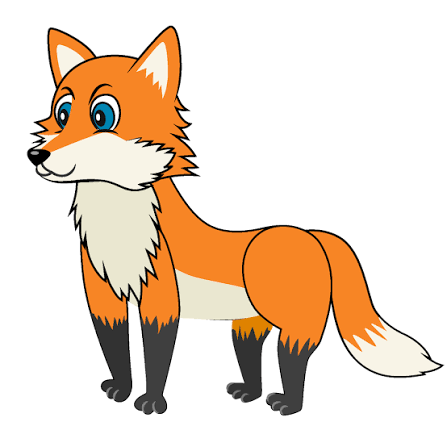
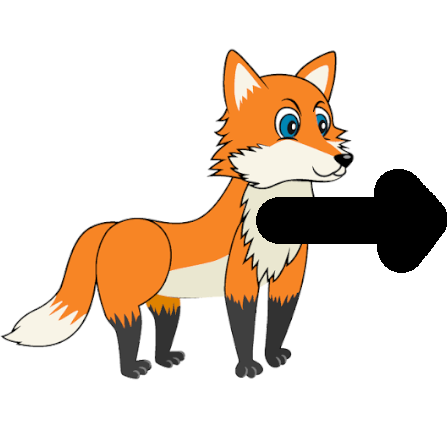
modif: agent.py

diff --git a/agent.py b/agent.py
@@ -13,14 +13,18 @@ class Agent:
         self.max_age = 100
 
         # energy will go down during the simulation, and if it reaches 0, the agent dies
-        self.energy = 100
+        self._energy = 100
+        self.energy_max = 150
         self.reproduction_energy_needed = 120
         self.reproduction_energy_cost = 50
 
+        # countdown is used to pause the agent when it is giving birth or eating
         self.countdown = 0
+        # countdown_cadavre is used to pause the agent when it is eated
+        self.countdown_cadavre = 0
 
         # direction (in radians)
-        self.direction = np.random.uniform(0, 2 * np.pi)
+        self._direction = np.random.uniform(0, 2 * np.pi)
 
         # After each update, the agent can change its direction by a maximum of max_angular_change
         self.max_angular_change = np.pi / 8
@@ -28,6 +32,32 @@ class Agent:
         # scalar speed
         self.speed = 1.
 
+    
+    @property
+    def energy(self):
+        return self._energy
+        
+    
+    @energy.setter
+    def energy(self, value):
+        self._energy = value
+        if self._energy < 0:
+            self._energy = 0
+        elif self._energy > self.energy_max:
+            self._energy = self.energy_max
+    
+    # getter of the direction of the agent
+    @property
+    def direction(self):
+        return self._direction
+
+    # setter of the direction of the agent
+    @direction.setter
+    def direction(self, value):
+        value = np.clip(value, 
+                        self._direction - self.max_angular_change, 
+                        self._direction + self.max_angular_change)
+        self._direction = value
     
     # method to change the direction of the agent by a proportion of the maximum angular change
     def change_direction(self, proportion):
@@ -41,32 +71,26 @@ class Agent:
         self.vx = self.speed * np.cos(self.direction)
         self.vy = self.speed * np.sin(self.direction)
 
-    def move(self, world):
-        # if the agent is in pause (giving birth or eat)
-        if self.countdown != 0 :
-            self.countdown -= 1
-            # speed = 0
-            self.x += 0
-            self.y += 0
-        # else, update of the velocity
-        else :
-            # toric world
-            x_limit = world.width
-            y_limit = world.height
-            
-            self.x += self.vx
-            self.y += self.vy
 
-            # if the agent goes out of the world, it appears on the other side
-            if self.x < 0:
-                self.x += x_limit
-            elif self.x > x_limit:
-                self.x -= x_limit
-            
-            if self.y < 0:
-                self.y += y_limit
-            elif self.y > y_limit:
-                self.y -= y_limit
+    def move(self, world):
+
+        # toric world
+        x_limit = world.width
+        y_limit = world.height
+        
+        self.x += self.vx
+        self.y += self.vy
+
+        # if the agent goes out of the world, it appears on the other side
+        if self.x < 0:
+            self.x += x_limit
+        elif self.x > x_limit:
+            self.x -= x_limit
+        
+        if self.y < 0:
+            self.y += y_limit
+        elif self.y > y_limit:
+            self.y -= y_limit
 
     def get_distance(self, other_agent: Agent, world: "World"):
         """
@@ -104,34 +128,53 @@ class Prey(Agent):
         super().__init__(x, y)
         self.speed = 1.0
 
+    @property
+    def energy(self):
+        if self._energy < 0:
+            self._energy = 0
+        elif self._energy > self.energy_max:
+            self._energy = self.energy_max
+        return self._energy
+    
+
     def runaway(self, world):
         """
         Detect predators in the world and change direction to run away from them.
         """
         distance_to_predators = np.inf
+        # default direction is the current direction of the prey
+        run_away_direction = self.direction
+
         for predator in world.predators:
             distance, direction = self.get_distance(predator, world)
             if distance < distance_to_predators:
                 distance_to_predators = distance
-                # Run away from the predator
+                # Run away from the predator ( the opposite direction => + pi)
                 run_away_direction = direction + np.pi
             
-        # We update the direction of the prey with a maximum angular change
-        diff_direction = self.direction - run_away_direction
-        diff_direction = np.clip(diff_direction, -self.max_angular_change, self.max_angular_change)
-        self.direction -= diff_direction
+        # We update the direction of the prey
+        # using the setter method of the direction property 
+        # to ensure the maximum angular change is respected
+        self.direction = run_away_direction
 
 
     def update(self, world):
         
         # update the direction
         self.runaway(world)
+        
         # update the velocity in x and y axis
         self.set_velocity()
+        
         # update the position of the prey in the world
-        self.move(world)
+        # if the agent is in pause (giving birth or eat)
+        if self.countdown != 0 :
+            self.countdown -= 1
+        else:
+            self.move(world)
 
-        # prey don't lose energy when moving, but they age
+        # prey gain energy over time (herbivore)
+        self.energy += 1
         self.age += 1
 
 #############################
@@ -146,6 +189,9 @@ class Predator(Agent):
         Detect prey in the world and change direction to hunt them.
         """
         distance_to_prey = np.inf
+        # default direction is the current direction of the predator
+        hunt_direction = self.direction
+
         for prey in world.preys:
             distance, direction = self.get_distance(prey, world)
             if distance < distance_to_prey:
@@ -153,18 +199,23 @@ class Predator(Agent):
                 # Move towards the prey
                 hunt_direction = direction
 
-        # We update the direction of the predator with a maximum angular change
-        diff_direction = hunt_direction - self.direction
-        diff_direction = np.clip(diff_direction, -self.max_angular_change, self.max_angular_change)
-        self.direction += diff_direction
+        # We update the direction of the predator
+        # using the setter method of the direction property 
+        # to ensure the maximum angular change is respected
+        self.direction = hunt_direction
 
     def update(self, world):
         # update the direction
         self.hunt(world)
         # update the velocity in x and y axis
         self.set_velocity()
+        
         # update the position of the predator in the world
-        self.move(world)
+        # if the agent is in pause (giving birth or eat)
+        if self.countdown != 0 :
+            self.countdown -= 1
+        else:
+            self.move(world)
 
         # predators lose energy when moving, and they age
         self.energy -= 2

diff --git a/world.py b/world.py
@@ -19,37 +19,50 @@ class World:
 
         self.color_prey = "blue"
         self.color_predator = "orange"
-    
+
+        self.list_predator_to_add = []
+        self.list_prey_to_add = []
+
     # method to add preys to the world
-    def add_prey(self, **karg):
+    def add_prey(self, **kwargs):
         """
         Add preys to the world. The preys can be added in two ways:
         number (int) : By specifying the number of preys to add. The preys will be added at random positions in the world.
         position (tuple) : By specifying the position of a single prey
         """
         # if an int is given, we create that many preys with random positions
-        for i in range(karg.get("number", 1)):
+        for i in range(kwargs.get("number", 1)):
             rand_pos = np.random.rand(2) * [self.width, self.height]
             self.preys.append(Prey(rand_pos[0], rand_pos[1]))
         # if a tuple is given, we create a prey at that position
-        if "position" in karg:
-            self.preys.append(Prey(karg["position"][0], karg["position"][1]))
+        if "position" in kwargs:
+            self.preys.append(Prey(kwargs["position"][0], kwargs["position"][1]))
     
     # method to add predators to the world
-    def add_predator(self, **karg):
+    def add_predator(self, **kwargs):
         """
         Add predators to the world. The predators can be added in two ways:
         1. By specifying the number of predators to add. The predators will be added at random positions in the world.
         2. By specifying the position of a single predator
         """
         # if an int is given, we create that many predators with random positions
-        for i in range(karg.get("number", 1)):
+        for i in range(kwargs.get("number", 1)):
             rand_pos = np.random.rand(2) * [self.width, self.height]
             self.predators.append(Predator(rand_pos[0], rand_pos[1]))
         # if a tuple is given, we create a predator at that position
-        if "position" in karg:
-            self.predators.append(Predator(karg["position"][0], karg["position"][1]))
+        if "position" in kwargs:
+            self.predators.append(Predator(kwargs["position"][0], kwargs["position"][1]))
 
+
+
+    def return_dict(self):
+        """
+        Return a dictionary containing the positions and direction of the preys and predators in the world.
+        """
+        return {
+            "preys": [(prey.x, prey.y, prey.direction) for prey in self.preys],
+            "predators": [(predator.x, predator.y, predator.direction) for predator in self.predators]
+        }
 
     # Method to eat a prey if a predator is close enough
     def eating(self):
@@ -82,8 +95,7 @@ class World:
                             predator.energy -= predator.reproduction_energy_cost
                             other_predator.energy -= other_predator.reproduction_energy_cost
                             # and a new predator is born
-                            self.add_predator(position=((predator.x + other_predator.x) / 2, (predator.y + other_predator.y) / 2))
-                            
+                            self.list_predator_to_add.append(((predator.x + other_predator.x) / 2, (predator.y + other_predator.y) / 2))
                             # countdown because they are exausted
                             # female
                             predator.countdown = 5
@@ -95,10 +107,10 @@ class World:
             for other_prey in self.preys:
                 if prey != other_prey:
                     distance = prey.get_distance(other_prey, self)[0]
-                    # if the preys are close enough
-                    if distance < 5.0: 
+                    # if the preys are close enough AND both preys have enough energy
+                    if distance < 5.0 and (prey.energy > prey.reproduction_energy_needed and other_prey.energy > other_prey.reproduction_energy_needed):
                             # new prey is born
-                            self.add_prey(position=((prey.x + other_prey.x) / 2, (prey.y + other_prey.y) / 2))
+                            self.list_prey_to_add.append(((prey.x + other_prey.x) / 2, (prey.y + other_prey.y) / 2))
 
                             # countdown because they are exausted
                             # female
@@ -134,5 +146,14 @@ class World:
 
         # remove dead agents
         self.remove_dead()
+
+        # add new agents to the world
+        for position in self.list_predator_to_add:
+            self.add_predator(position=position)
+        self.list_predator_to_add = []
+
+        for position in self.list_prey_to_add:
+            self.add_prey(position=position)
+        self.list_prey_to_add = []
 
         self.time += 1